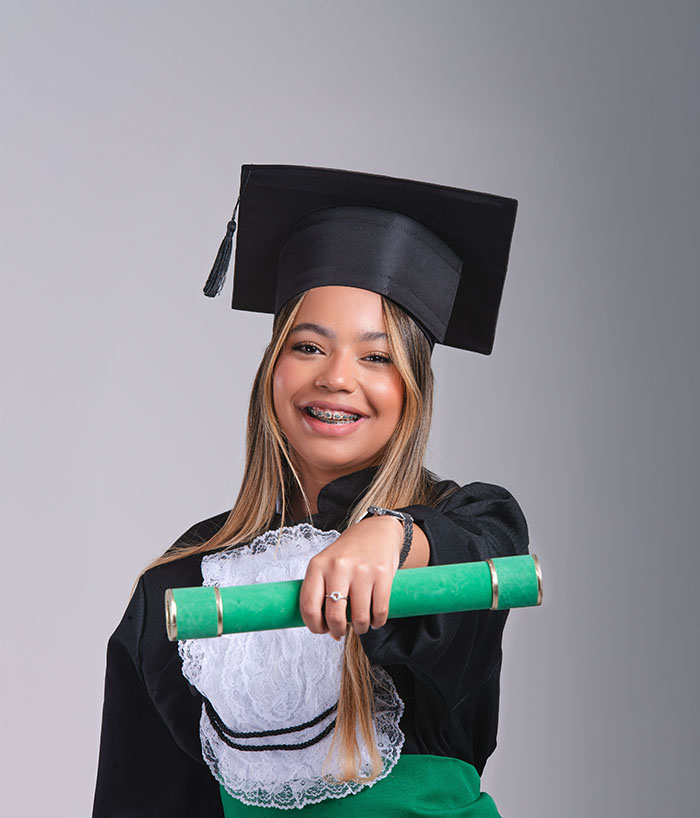
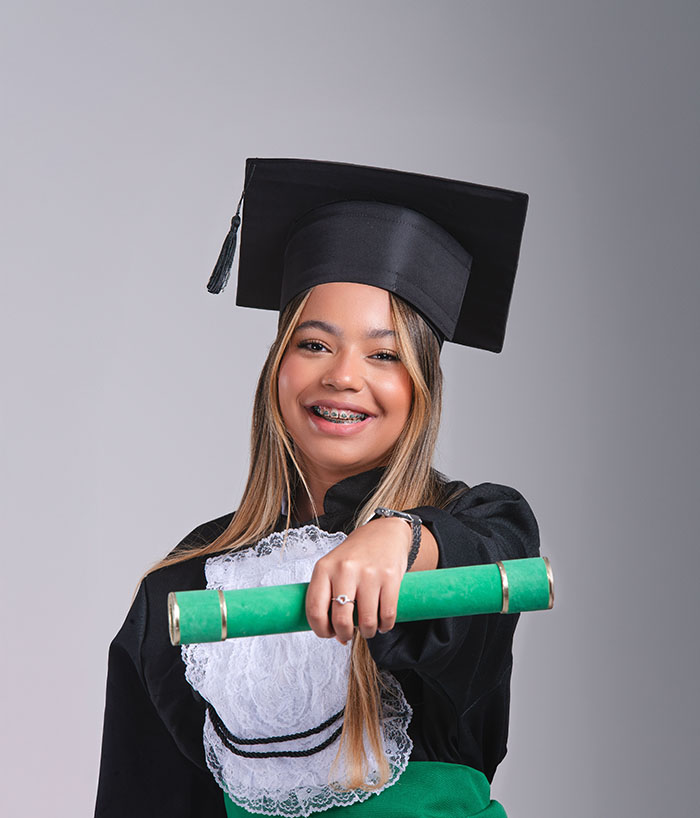
base avaliation

Changed region(s): [[0.15, 0.1834, 0.81, 1.0], [0.12, 0.8557, 0.15, 1.0]]

diff --git a/css/main.css b/css/main.css
@@ -60,18 +60,77 @@ body {
   z-index: 1;
 }
 
-.formando {
-  display: flex;
-  
+.avaliacoes {
+  position: relative;
+  overflow: hidden;
 }
-.formando img {
+
+.avaliacoes::before {
+  content: "";
+  position: absolute;
   width: 100vw;
+  height: 100vh;
+  background: linear-gradient(
+    to bottom,
+    rgba(2, 9, 22, 0.058) 88%,
+    rgb(2, 9, 22) 100%
+  );
+  z-index: 1;
+
+}
+
+.formando {
+  position: relative;
+  display: flex;
+  height: auto;
+  transition: 0.25s;
+}
+
+.formando img {
+  width: 100%;
   object-fit: cover;
   height: 100vh;
   overflow: hidden;
   box-sizing: border-box;
 }
+.content {
+  display: flex;
+  position: relative;
+}
 
+.content span {
+  text-align: center;
+  position: absolute;
+  background-color: rgba(30, 32, 42, 0.438);
+  border: 2px solid rgba(0, 0, 0, 0.099);
+  padding: 10px;
+  border-radius: 5px;
+  width: 95%;
+  height: 20%;
+  font-size: 90%;
+  font-weight: 300;
+  transition: 0.25s;
+  display: flex;
+  justify-content: center; 
+  align-items: center; 
+  transform: translate(-50%, -50%);
+  top: 83%;
+  left: 50%;
+
+}
+
+.content span::before {
+  content: "";
+  position: absolute;
+  top: 0;
+  left: 0;
+  right: 0;
+  bottom: 0;
+  background-color: rgba(30, 36, 42, 0.438);
+  backdrop-filter: blur(1px); 
+  border-radius: 5px; 
+  z-index: -1; 
+}
 
 
 
@@ -82,13 +141,12 @@ body {
   margin-top: 5px;
 }
 .sobre img {
-  
   max-width: 100vw;
   height: auto;
   transition: box-shadow 0.3s ease;
 }
 
-.elitegrupo{
+.elitegrupo {
   position: relative;
   overflow: hidden;
 }
@@ -124,7 +182,6 @@ body {
   font-weight: 100;
 }
 
-
 .elitegrupo::before {
   content: "";
   position: absolute;
@@ -148,8 +205,6 @@ body {
   transition: 0.5s ease-in-out;
 }
 
-
-
 @media (max-width: 782px) {
   .carousel-item span {
     text-align: center;
@@ -171,7 +226,6 @@ body {
   .formando {
     display: flex;
     flex-wrap: wrap;
-    
   }
   .formando img {
     width: 50vw;
@@ -179,6 +233,10 @@ body {
     height: 100vh;
     overflow: hidden;
     box-sizing: border-box;
+  }
+
+  .content3 img{
+    transform: scaleX(-1);
   }
 }
 

diff --git a/index.html b/index.html
@@ -68,12 +68,24 @@
         </div>
         <div class="avaliacoes">
             <div class="formando">
-                <img src="./assets/Rebecca.jpg" alt="">
-                <img src="./assets/PAulo.jpg" alt="">
-                <img src="./assets/MANU2.jpg" alt="">
-                <img src="./assets/Evellin 5.jpg" alt="">
+                <div class="content content1">
+                    <img src="./assets/Rebecca.jpg" alt="">
+                    <span id="f1">Yasss, muito obrigadaaa por tudo! Você é incrivel, seu trabalho é incrível! Nunca me senti tão linda assim!!!</span>
+                </div>
+                <div class="content content2">
+                    <img src="./assets/PAulo.jpg" alt="">
+                    <span id="f2">As fotos ficaram sensacionais, realmente superaram as minhas expectativas! o resultado ficou muito top. Valeu mesmo, foi um prazer trabalhar contigo! </span>
+                </div>
+                <div class="content content3">
+                    <img src="./assets/MANU2.jpg" alt="">
+                    <span id="f3">Sério, você arrasou nas fotos! Cada clique tem um toque tão especial. Me senti uma verdadeira modelo! Muito obrigada pela dedicação e pelas fotos lindas! </span>
+                </div>
+                <div class="content content4">
+                    <img src="./assets/Evellin 5.jpg" alt="">
+                    <span id="f4">"As fotos ficaram perfeitas, você capturou exatamente o que a gente queria! não poderia ter sido melhor! Obrigada por tudo, amei o resultado!</span>
+                </div>
             </div>
-            <div class="elogio"></div>
+
         </div>
         <div class="sobre">
             <div class="elitegrupo">
